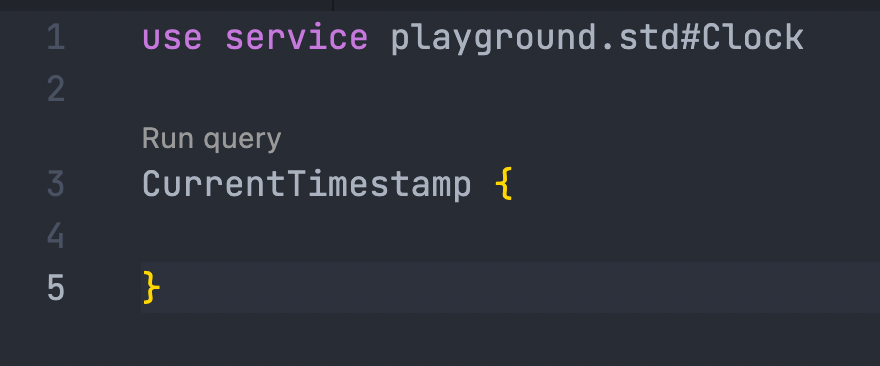
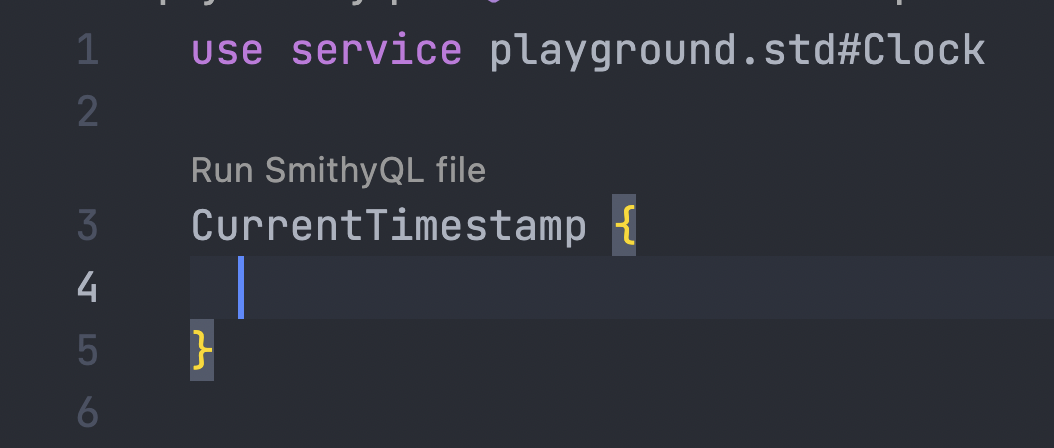
Update readme for multi-query files

diff --git a/README.md b/README.md
@@ -91,7 +91,7 @@ The runner needs a base URL to target with its queries. This defaults to `http:/
 
 or by manually changing the key in  `./vscode/settings.json`.
 
-If a query typechecks, it can be executed by clicking on the "Run query" code lens...
+If a query typechecks, it can be executed by clicking on the "Run SmithyQL file" code lens...
 
 ![code lens](./images/lens.png)
 
@@ -104,9 +104,11 @@ or triggering the command from the Command Palette:
 - Running queries via code lens or command
 - Formatting
 - Enabling/disabling line comments
-- Completions on: operation name, structure fields, union cases, enums (inside the string literal).
-- Documentation in completions (operation docs, input/output types, structure field type)
+- Completions (as long as the code is at least syntactically valid)
+- Documentation in completions (operation docs, input/output types, structure member types)
+- Document outline / breadcrumbs / "go to symbol in editor"
 - Rough error highlighting on parse errors, type mismatches, missing fields
+- AWS client calls for services supporting `@awsJson1_0` and `awsJson1_1`
 
 ## Syntax
 
@@ -177,35 +179,46 @@ In this case, the syntax would be `"HOT"` or `"COLD"`.
 - smithy4s refinements: all validations provided by smithy4s are supported. If you find one that isn't, file an issue!
   Supporting additional validations, like your own, may be enabled in the future using the plugin infrastructure of Smithy Playground.
 
+### Prelude
+
+A SmithyQL file starts with a section called a prelude. It can contain use clauses (described below) available to all queries in the file.
+
+For example:
+
+```
+use service playground.std#Clock
+use service playground.std#Random
+```
+
+Use clauses are optional, as queries can refer to a service explicitly.
+
 ### Queries
 
-<!-- https://github.com/kubukoz/smithy-playground/issues/151 -->
+A SmithyQL file can contain any number of Queries. A Query is formed of the following:
 
-Currently, a SmithyQL file is a single Query. A Query is formed of the following:
-
-- (optional) a `use service` clause: `use service playground.std#Clock`
 - an operation name
 - the operation input (a structure literal)
 
 An operation name can be either:
 
-- fully qualified, in which case it looks like this: `playground.std#Clock.CurrentTimestamp`
-- implicitly qualified, in which case it's just the operation name: `CurrentTimestamp`
+- fully qualified, in which case it looks like this: `playground.std#Clock.CurrentTimestamp` (using the service `playground.std#Clock` for just this single query)
+- implicitly qualified, in which case it's just the operation name: `CurrentTimestamp`. You can only use implicitly qualified operation names if there's exactly one service in scope (added with `use service`) that contains an operation of the given name. Otherwise, you have to use an explicit reference.
 
-#### on `use service`
+Explicit (fully qualified) references always have priority over implicit ones.
 
-The `use service` clause sets the service that will implicitly be used for all queries in a file.
-Currently, there's only one query per file, but that will change in the future.
+#### use clauses - `use service`
 
-`use service` and a fully qualified operation name are **mutually exclusive**: you can only use **exactly one** of them in a file.
+A `use service` clause adds a service to the set of services that will implicitly be used as the default for all queries in a file.
 
-To sum up, these are equivalent:
+For a single-query file, an explicit and implicit service reference are always equivalent:
 
 ```
 use service playground.std#Clock
 
 CurrentTimestamp {}
 ```
+
+is the same as
 
 ```
 playground.std#Clock.CurrentTimestamp {}
@@ -221,7 +234,7 @@ The operation input is always a structure, even if there is no explicitly define
 
 - Trailing commas are supported in lists and objects, and they're preferred by the standard formatter. No, there aren't any other formatters.
 
-- Formatting is quite whitespace-happy and optimizes for consistency. It's not perfect and has known bugs (e.g. too much indentation in lists), but improvements in that area are on the roadmap.
+- Formatting is quite whitespace-happy and optimizes for consistency.
 
 - Syntax may change in the future, but any breaking changes will be phased in with a deprecation cycle, and an automated rewrite.
 
@@ -230,7 +243,7 @@ The operation input is always a structure, even if there is no explicitly define
 
 ## Known issues
 
-- ~Not all Smithy shapes are supported in all areas~ This has been fixed in [the main plugin](https://github.com/kubukoz/smithy-playground/releases/tag/v0.3.8).
 - Type errors and completions are only shown if the file parses. This is being worked on.
 - It can take a couple seconds to activate the extension when the project is opened (JVM startup)
-- AWS support is very barebones (the whole editor needs to be loaded with AWS credentials in the environment)
+- AWS support requires credentials in scope for the entire editor instance
+- See issue list
